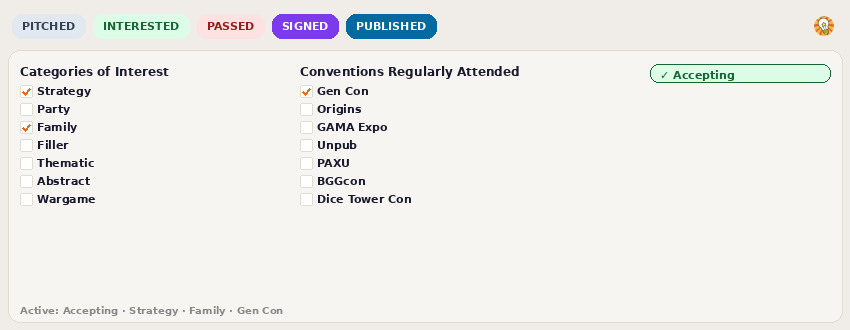
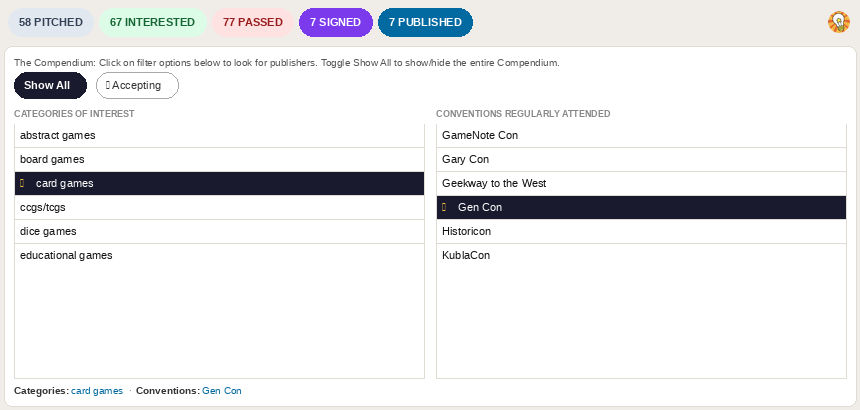
Compendium filters: OR logic across cat/conv lists; update filter panel image to match real UI

diff --git a/source/dashboard/index.php b/source/dashboard/index.php
@@ -3258,17 +3258,15 @@ function buildPublisherView(pitches) {
           delete pubs[p]; return;
         }
       }
-      var catFilters = Object.keys(activeCompFilters).filter(function(k){ return k.indexOf('cat:') === 0; });
-      if (catFilters.length) {
-        var pubCats = (cpub.categories || '').toLowerCase();
-        var allMatch = catFilters.every(function(k){ return pubCats.indexOf(k.slice(4)) !== -1; });
-        if (!allMatch) { delete pubs[p]; return; }
-      }
+      // OR logic: publisher passes if it matches ANY selected category OR ANY selected convention
+      var catFilters  = Object.keys(activeCompFilters).filter(function(k){ return k.indexOf('cat:')  === 0; });
       var convFilters = Object.keys(activeCompFilters).filter(function(k){ return k.indexOf('conv:') === 0; });
-      if (convFilters.length) {
+      if (catFilters.length || convFilters.length) {
+        var pubCats  = (cpub.categories  || '').toLowerCase();
         var pubConvs = (cpub.conventions || '').toLowerCase();
-        var allMatch = convFilters.every(function(k){ return pubConvs.indexOf(k.slice(5).toLowerCase()) !== -1; });
-        if (!allMatch) delete pubs[p];
+        var catMatch  = catFilters.length  > 0 && catFilters.some(function(k){  return pubCats.indexOf(k.slice(4)) !== -1; });
+        var convMatch = convFilters.length > 0 && convFilters.some(function(k){ return pubConvs.indexOf(k.slice(5).toLowerCase()) !== -1; });
+        if (!catMatch && !convMatch) { delete pubs[p]; return; }
       }
     });
   }

diff --git a/source/pitchboard/help_compendium/index.php b/source/pitchboard/help_compendium/index.php
@@ -285,7 +285,7 @@ code { font-family: 'Courier New', monospace; font-size: .82em; background: rgba
         <p>Multi-select list. Shows publishers that attend the chosen conventions — useful for con prep.</p>
       </div>
     </div>
-    <div class="tip"><strong>Filters combine:</strong> selecting "Accepting" plus "Gen Con" shows only publishers who are accepting submissions AND regularly attend Gen Con. Active filters are shown as a summary line below the lists.</div>
+    <div class="tip"><strong>Filters combine with OR:</strong> selecting "card games" and "Gen Con" shows publishers interested in card games OR who attend Gen Con — any match qualifies. "Accepting" is separate and always narrows the results further. Active filters are shown as a summary line below the lists.</div>
     <div class="tip"><strong>Closing the filter panel:</strong> tap the CE logo button again to collapse the panel and clear all active Compendium filters.</div>
   </div>
 
